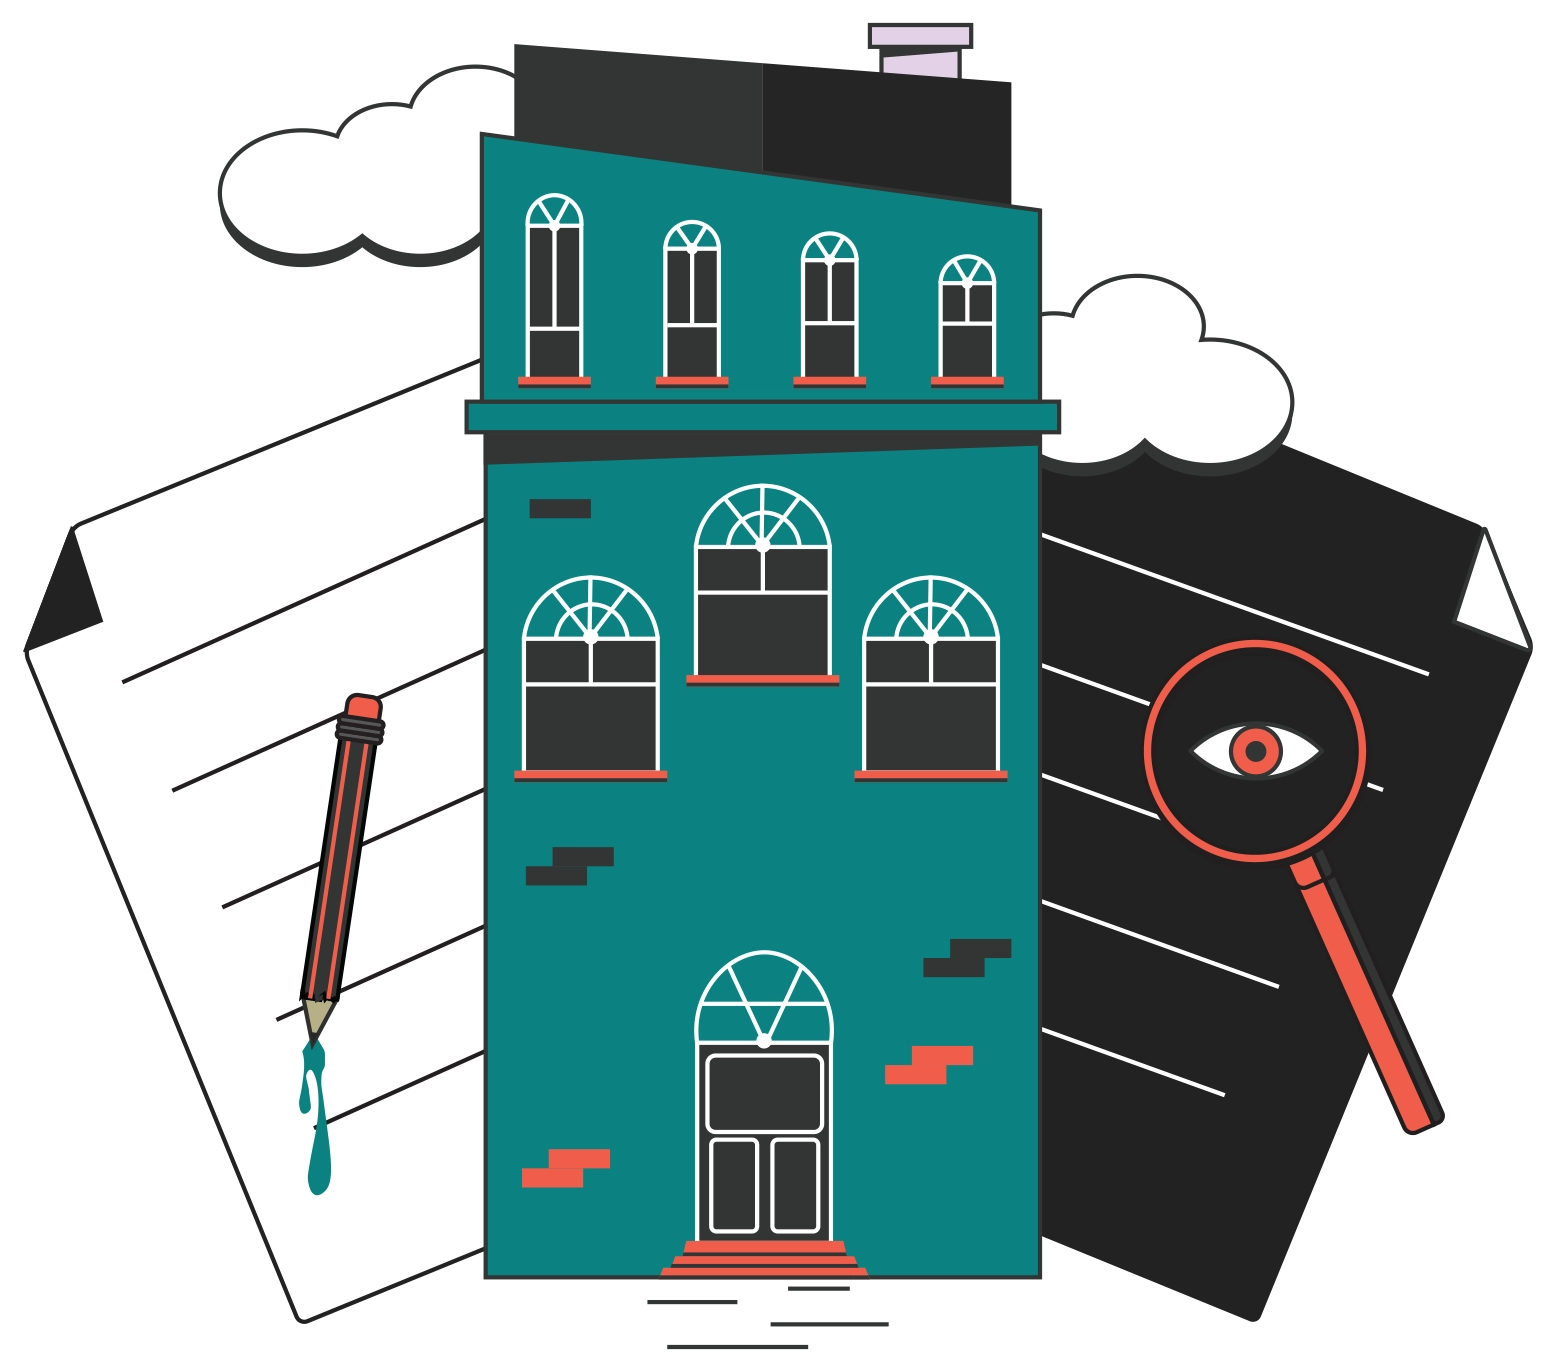
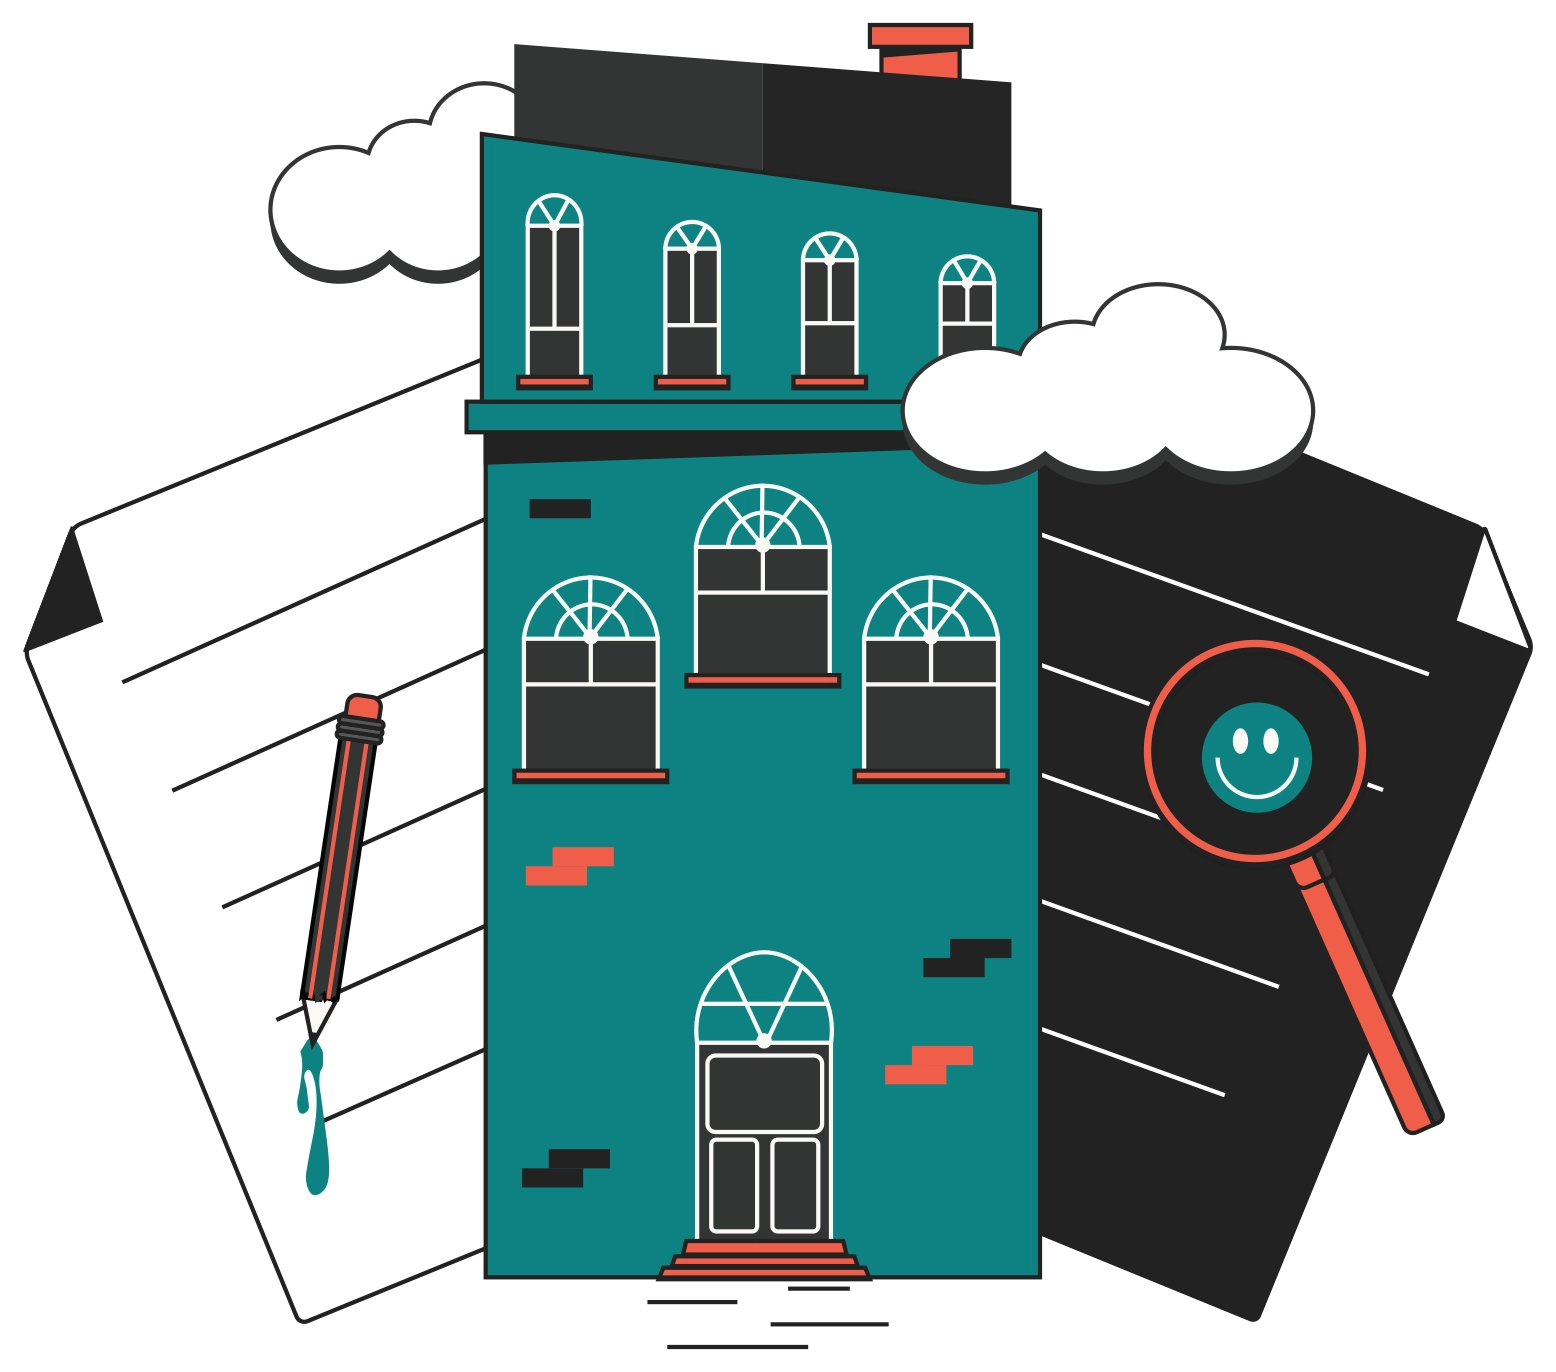
finalizing styles

diff --git a/src/components/MobileNavigation/MobileMenu.js b/src/components/MobileNavigation/MobileMenu.js
@@ -1,7 +1,10 @@
 'use client'
 import React, { useRef } from 'react'
 import Link from 'next/link'
+import Image from 'next/image'
 import { motion, useInView } from 'framer-motion'
+import smile from '../../../public/images/smile.webp'
+import Copyright from '../Copyright'
 
 export default function MobileMenu({ open, setOpen }) {
   const animateFrom = { opacity: 0, y: 30 }
@@ -12,73 +15,45 @@ export default function MobileMenu({ open, setOpen }) {
 
   return (
     <>
-      {open && (
-        <div className='pt-40 text-4xl flex-col justify-start items-center fixed h-screen w-9/12 top-0 right-0 z-30 bg-white shadow-card mv:flex md:hidden list-none'>
-          <motion.li
-            className='mv:mb-16 md:mr-8'
-            initial={animateFrom}
-            animate={animateTo}
-            transition={{ delay: 0.2 }}
+      <div
+        className={`py-40 text-4xl flex-col justify-between items-center fixed h-screen w-10/12 top-0 right-0 z-30 bg-white shadow-card mv:flex md:hidden transition duration-250 ease-in list-none ${
+          open ? 'translate-x-0' : 'translate-x-full'
+        }`}
+      >
+        <div className='flex flex-col items-center'>
+          <Link
+            className='cursor-pointer mv:mr-0 mb-16 hover:underline'
+            href='/about'
             onClick={() => {
               setOpen(false)
             }}
           >
-            <Link
-              className='cursor-pointer mv:mr-0'
-              href='/artwork'
-              style={{
-                transform: isInView ? 'none' : 'translateY(20px)',
-                transition: 'all 0.25s ease-in',
-                opacity: isInView ? 'opacity-100' : 'opactity-0',
-              }}
-            >
-              Illustrations
-            </Link>
-          </motion.li>
-          <motion.li
-            className='mv:mb-16 md:mr-8'
-            initial={animateFrom}
-            animate={animateTo}
-            transition={{ delay: 0.4 }}
+            About
+          </Link>
+          <Link
+            className='cursor-pointer mv:mr-0 mb-16 hover:underline'
+            href='/hire-us'
             onClick={() => {
               setOpen(false)
             }}
           >
-            <Link
-              className='cursor-pointer mv:mr-0'
-              href='/signin'
-              style={{
-                transform: isInView ? 'none' : 'translateY(20px)',
-                transition: 'all 0.25s ease-in',
-                opacity: isInView ? 'opacity-100' : 'opactity-0',
-              }}
-            >
-              Hire us
-            </Link>
-          </motion.li>
-          <motion.li
-            className='mv:mb-52 md:mr-8'
-            initial={animateFrom}
-            animate={animateTo}
-            transition={{ delay: 0.6 }}
+            Hire us
+          </Link>
+          <Link
+            className='cursor-pointer mv:mr-0 hover:underline'
+            href='/illustrations'
             onClick={() => {
               setOpen(false)
             }}
           >
-            <Link
-              className='cursor-pointer mv:mr-0'
-              href='signup'
-              style={{
-                transform: isInView ? 'none' : 'translateY(20px)',
-                transition: 'all 0.25s ease-in',
-                opacity: isInView ? 'opacity-100' : 'opactity-0',
-              }}
-            >
-              About
-            </Link>
-          </motion.li>
+            Illustrations
+          </Link>
         </div>
-      )}
+        <div className='flex flex-col items-center justify-center'>
+          <Image className='w-16 h-16 mb-8' src={smile} alt='smiley face' />
+          <Copyright />
+        </div>
+      </div>
     </>
   )
 }

diff --git a/src/pages/hire-us/index.js b/src/pages/hire-us/index.js
@@ -13,20 +13,27 @@ export default function index() {
     <div className='px-8 mb-40'>
       <div className='hire-landing flex flex-col items-center justify-center mt-32'>
         <p className='text-theme font-semibold mb-3 text-lg'>FOR YOU</p>
-        <h1 className='text-6xl font-semibold mb-3 text-center'>
-          Custom Illustrations
+        <h1 className='text-7xl font-semibold mb-3 text-center'>
+          <span className='gradient-text'>Custom</span> Vector Graphics
         </h1>
-        <p className='text-2xl mb-3 font-medium'>We&#39;ll help your brand stand out</p>
+        <p className='text-3xl mb-3 font-medium'>
+          That help your brand get noticed
+        </p>
         <p className='mv:w-full sm:w-500 text-center'>
           Are you looking to take your design beyond the free illustrations we
-          offer? Then take a journey with us into the Forbidden Forest and
-          unlock your design&#39;s true potential.
+          offer? Do you want your users to have a memorable experience? Then take a journey with us into the Forbidden Forest and
+          let&#39;s create illustrations for your project, together.
         </p>
-        <div className='flex mt-6'>
+        <button className='mt-20 text-center rounded px-8 py-4 text-black w-48 text-md tracking-wider font-poppins bg-white border border-black cursor-pointer hover:scale-102 transition-all ease-in duration-50 mv:mx-auto sm:mx-0'
+          id="hire-btn"
+        >
+          Get started
+        </button>
+        {/* <div className='flex mt-6'>
           <div className='bg-theme h-12 w-12 rounded-full'></div>
           <div className='bg-offwhite h-12 w-12 rounded-full mx-4'></div>
           <div className='bg-secondary h-12 w-12 rounded-full'></div>
-        </div>
+        </div> */}
       </div>
       <div className='flex flex-col justify-center items-center mv:px-8 md:px-0 mb-12 mt-80'>
         <h1 className='text-4xl text-center mb-4 w-100'>

diff --git a/src/layout/Attribute.js b/src/layout/Attribute.js
@@ -5,17 +5,17 @@ import arrow from '../../public/images/arrowai.webp'
 
 const Attribute = () => {
   return (
-    <section className='mt-80'>
+    <section className='mt-80 px-8'>
       <span>
         <h2 className='text-4xl w-96 text-black text-center mx-auto mb-6'>
           Image attributes
         </h2>
-        <p className='text-center w-3/6 mx-auto text-black'>
+        <p className='text-center mx-auto text-black mv:w-full md:w-400'>
           We require you to add image attributions when using our illustrations.
           There are two options you can choose from when adding attributes.
         </p>
       </span>
-      <div className='flex items-center mt-32 mv:flex-col-reverse md:flex-row'>
+      <div className='flex items-center mv:mt-8 md:mt-32 mv:flex-col md:flex-row'>
         <div className='flex-1 relative flex flex-col items-center justify-center mv:w-screen md:w-7/12 mv:mt-16 md:mt-0'>
           <Image className='h-auto w-4/6' src={image} alt='platform' />
           <span className='relative'>
@@ -37,7 +37,8 @@ const Attribute = () => {
             <p className='text-3.5xl mb-4 text-black'>Attribute Options</p>
             <ul className='list-disc'>
               <li className='mb-2 text-black'>
-                You can add an attribute under each individual image as seen here.
+                You can add an attribute under each individual image as seen
+                here.
               </li>
               <li className='mb-8 text-black'>
                 Or you can add one attribute in your footer to account for all

diff --git a/src/layout/Footer.js b/src/layout/Footer.js
@@ -1,15 +1,12 @@
+'use client'
+
 import Link from "next/link";
 import Image from "next/image";
 import twitter from '../../public/images/twitter.svg'
 import instagram from '../../public/images/instagram.svg'
+import Copyright from "@/components/Copyright";
 
 const Footer = ({ padding }) => {
-  const getYear = () => {
-    const date = new Date();
-    let year = date.getFullYear();
-
-    return year;
-  };
 
   return (
     <footer className='mv:px-8 md:px-20 py-12 bg-offwhite'>
@@ -57,10 +54,8 @@ const Footer = ({ padding }) => {
       </div>
       <div className='h-px w-full bg-gray-800'></div>
       <div className='flex items-center mt-4'>
-        <p className=' text-left text-sm mr-12'>
-          &#xA9; Vector Owl, {getYear()}. All Rights Reserved.
-        </p>
-        <div className='flex space-x-3.5'>
+        <Copyright />
+        <div className='flex space-x-3.5 ml-12'>
           <Link
             href='https://twitter.com/_PixelPrism'
             className='nav-link p-2 rounded-full transition-all ease-in duration-150'

diff --git a/src/app/globals.css b/src/app/globals.css
@@ -259,3 +259,16 @@ select {
     max-height: 350px;
   }
 }
+
+.gradient-text {
+  background-image: linear-gradient(90deg,#942a1c,#f45d48);
+  -webkit-text-fill-color: transparent;
+  background-clip: text;
+  -webkit-background-clip: text;
+}
+
+#hire-btn {
+  -webkit-box-shadow: 0px 0px 110px 0px rgba(7,128,128,1);
+  -moz-box-shadow: 0px 0px 110px 0px rgba(7,128,128,1);
+  box-shadow: 0px 0px 110px 0px rgba(7,128,128,1);
+}

diff --git a/src/components/Copyright.js b/src/components/Copyright.js
@@ -1,0 +1,14 @@
+export default function Copyright() {
+  const getYear = () => {
+    const date = new Date()
+    let year = date.getFullYear()
+
+    return year
+  }
+
+  return (
+    <p className=' text-left text-sm'>
+      &#xA9; Vector Owl, {getYear()}. All Rights Reserved.
+    </p>
+  )
+}
